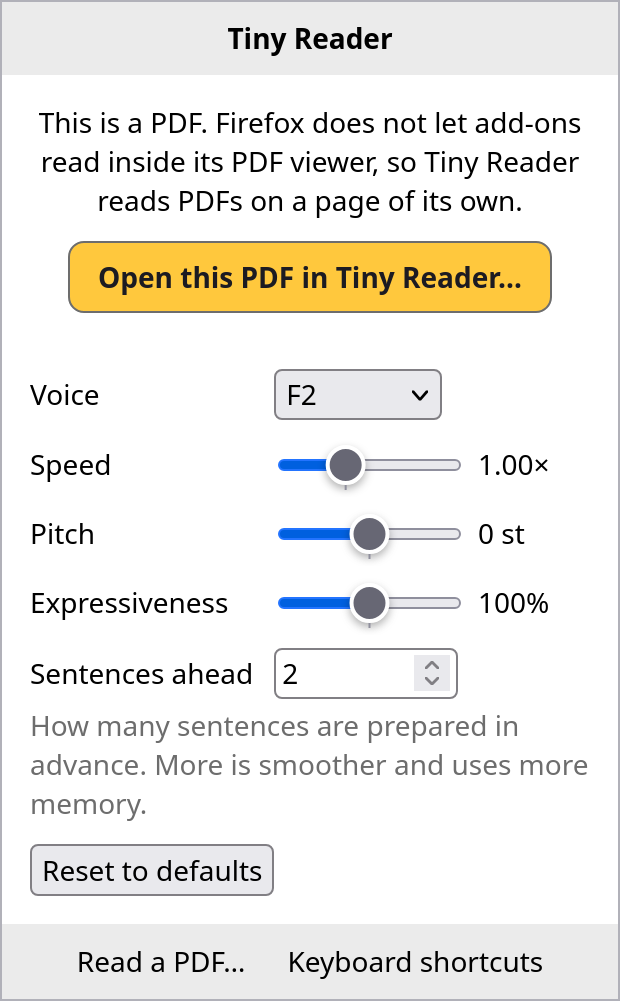
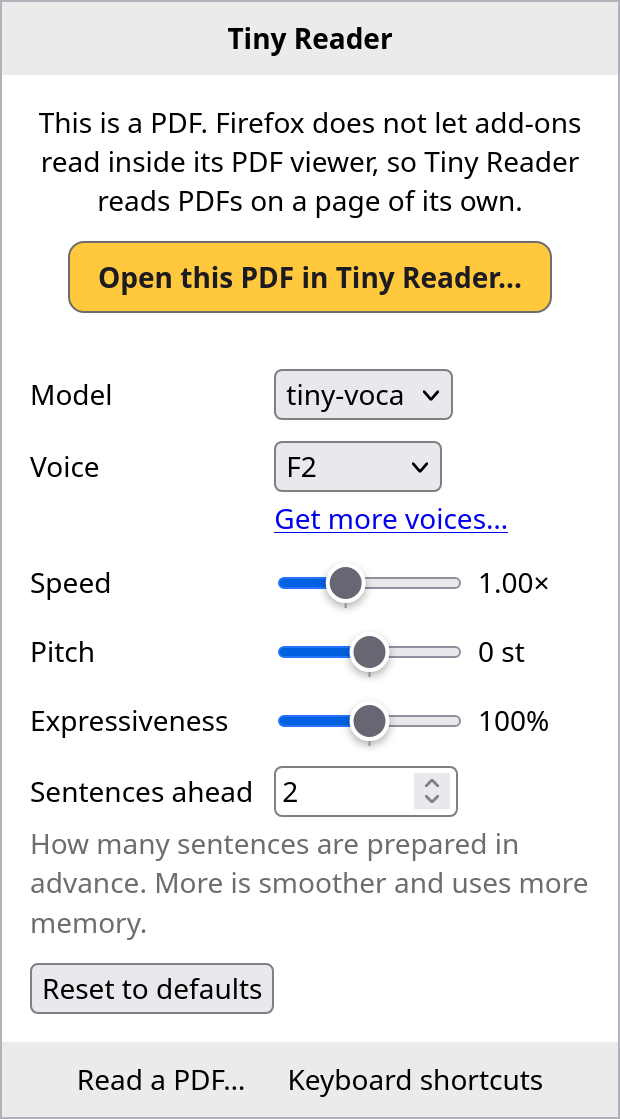
docs: document extra voices, their download and the model list

diff --git a/docs/FINDINGS.md b/docs/FINDINGS.md
@@ -5,7 +5,7 @@ tested with code unless marked **(unverified)**. It explains choices that look o
 the background page, why PDFs get a page of their own, why Firefox 140.
 
 Checked 2026-11-19 to 2026-11-21 with Node 22.22.1, Firefox 158.0.1 (Linux x86-64, headless), onnxruntime-web 1.31.1
-and pdf.js 6.5.438. Nothing in the automated runs was listened to.
+and pdf.js 6.5.438. Nothing in the automated runs was listened to, the downloadable voices of §13 included.
 
 Pinned sources:
 
@@ -275,3 +275,100 @@ size becomes a goal, upstream's block-scaled Q8 weights are the better route and
   shortcut's `<key>` element, which fails unless that exact shortcut is registered.
 - `web-ext lint`: no errors, four accepted warnings. One is that `strict_min_version` 140 predates Firefox for
   Android 142 (the add-on is desktop only); three are inside ONNX Runtime and pdf.js.
+
+## 13. Extra voices
+
+Other models of the tiny-voca family can be downloaded from a list kept in the add-on
+([engine/models.ts](../engine/models.ts)). The bundled model stays in every release.
+
+**Which models**
+
+- A model can be listed only if it works with the engine and the bundled English phonemizer unchanged: the same
+  token table, the inputs and outputs of §1, 24 kHz. Text-to-phoneme code for another language would have to ship
+  inside the add-on; it cannot be downloaded, because that would be remote code.
+- A check on 2026-11-21 of the 34 community models linked from the tiny-voca README found two that qualify, both
+  Apache-2.0 and both a 21 MB float32 ONNX file. Through `createEngine` under Node each gave finite audio and 14 word
+  timings for a test sentence.
+
+  | Model                     | Voices | Hugging Face revision                      | `onnx/model.onnx`                     |
+  | ------------------------- | ------ | ------------------------------------------ | ------------------------------------- |
+  | `PatnaikAshish/SobbieTTS` | F, M   | `6b6132c6d34b5fc163d8f5553580678a60532ac3` | 21,386,372 bytes, SHA-256 `eafb38b7…` |
+  | `cfahlgren1/fiato`        | F1, M1 | `967de50b6a9ab673ef7de9f8f276fa93a8c0db81` | 21,388,682 bytes, SHA-256 `179df2e1…` |
+
+- SobbieTTS has the original's token table. fiato has the same 76 tokens at the same ids plus three more (sigh,
+  exhale, gasp) that the phonemizer never emits, so those sounds are not used.
+- **`phonemizer.fingerprint` in a model's `config.json` cannot be trusted**: one model claimed the original's
+  fingerprint with a different token table. Models are admitted by comparing the table itself.
+- **Each list entry names the text front end it needs** (`frontend`), and the list in this repository is the
+  authority for it, for the reason above. There is one front end today, `dizione`, the bundled English phonemizer,
+  and all three entries name it. The engine picks the front end by that name and refuses a model whose front end it
+  does not have, before loading the file; the bundled model then reads, with the notice described below.
+- What that leaves open for another language: a front end's **code** must ship in the add-on (no remote code), so a
+  new language is a new release with its front end and list entries that name it. A front end's **data**, such as a
+  pronunciation dictionary, is data like model weights and could be downloaded the same way. Neither is built: no
+  interface for front ends, no downloadable front-end data.
+- The sizes and SHA-256 values are the ones Hugging Face publishes for the files
+  (`https://huggingface.co/api/models/<repo>?blobs=true`); a download of SobbieTTS from Firefox hashed to the same.
+
+**Is a download allowed?** Mozilla's Add-on Policies (last updated 2026-10-20) and the revision announced for
+2026-12-01 say the same in "Development Practices": "Add-ons must be self-contained and not load remote code for
+execution", and "Add-ons must use encryption when transporting data remotely." About other files: "If external
+resources are used in combination with add-on code, the functionality of the code must not be obscured." Nothing
+forbids fetching data. Model weights are data: ONNX Runtime, which is in the package, reads them, and no script or
+wasm is fetched. The policy does not define "remote code", so a reviewer has the last word **(unverified: not
+submitted yet)**. The request is `https`, started by a click, and described in the README.
+
+**The request**
+
+- `https://huggingface.co/<repo>/resolve/<revision>/onnx/model.onnx` answers `302` to a signed address on
+  `us.aws.cdn.hf.co`. Both answers carry CORS headers, so **the download works from an add-on page with no host
+  permission at all** (21 MB in 1.5 s on the test connection).
+- **The permission is asked for anyway, because of one header.** Measured with a local server: without host access
+  Firefox sends `Origin: moz-extension://<uuid>` on the first request, and that uuid is made up per installation,
+  so it would tell one user's downloads apart. With host access to the first host there is no `Origin` header; the
+  redirected request carries `Origin: null` either way. `credentials: "omit"` keeps cookies out. An end-to-end test
+  checks that the request has no `Cookie`, `Authorization`, `Origin` or `Referer`.
+- The access is requested in the click on Download and removed when that download ends, unless it was held before
+  (granted earlier for a PDF on that site). Firefox's prompt reads "Access your data for sites in huggingface.co
+  domains". Verified by clicking through the real prompt: accepted and refused in the settings page opened in a
+  tab, and accepted where it is embedded in `about:addons`, with a real download from Hugging Face.
+- **Not in the toolbar popup.** A popup closes when it loses focus, which a permission prompt causes, and a
+  download would die with it. The popup offers the downloaded models and a link to the settings.
+
+**Verifying and storing**
+
+- A download is kept in memory, never more than the size the list pins, and stored only if its length and SHA-256
+  match. Tested end to end with a file that has one byte changed: nothing is stored.
+- **Storage: IndexedDB.** Tried with a throwaway add-on, writing 21 MB in a page and reading it elsewhere:
+
+  | Storage                                 | Add-on page | Background page | Worker started by it |
+  | --------------------------------------- | ----------- | --------------- | -------------------- |
+  | IndexedDB, as a `Blob`                  | works       | works           | works, read in 36 ms |
+  | IndexedDB, as an `ArrayBuffer`          | works       | works           | works                |
+  | OPFS (`navigator.storage.getDirectory`) | works       | works           | works                |
+
+  Both would do. IndexedDB was taken: the same few lines in the page and in the Worker, and a `Blob` is kept as a
+  file by Firefox. `storage.local` is not meant for 21 MB values.
+- `navigator.storage.persisted()` is false, so Firefox may evict the models when the disk is short. `unlimitedStorage`
+  would prevent that and was not added: it is one more permission, and a model that is gone is handled.
+
+**Using a model**
+
+- The model's id travels with every request (`SynthOptions.model`). The Worker has no `browser.storage`, and this
+  way a change of model needs no other message.
+- Before a model is used, its inputs and outputs are compared with §1, by name and type
+  (`InferenceSession.inputMetadata`). A stand-in model with one input renamed is refused.
+- **Fallback.** A model that is not in storage, cannot be loaded, or needs a front end the build lacks is replaced by
+  the bundled one, and every
+  result made that way carries a notice that the control bar shows. A missing file is looked for again with each
+  sentence (cheap), so a model downloaded again is used at once; a file that failed to load is not tried again
+  until the Worker restarts. The settings form offers only models that are in storage, and deleting the chosen
+  model chooses the bundled one.
+- One model is in memory at a time; switching releases the session first. In Firefox, the test sentence came out as
+  2.57 s of audio with SobbieTTS and 2.94 s with fiato, 9 word timings each.
+
+**Testing.** No test file can pass for a listed model, since each is pinned to a hash. The end-to-end test
+([tests/e2e/models.test.ts](../tests/e2e/models.test.ts)) therefore makes a second production build with one more
+list entry, given in `VITE_E2E_MODEL`: a 687-byte ONNX file with the right inputs and outputs, written out by hand
+([tests/stand-in-model.ts](../tests/stand-in-model.ts)) and served by the local test site. The normal build has no
+trace of it.

diff --git a/README.md b/README.md
@@ -3,8 +3,9 @@
 A Firefox add-on (Manifest V3) that reads web page text aloud with the
 [tiny-voca](https://github.com/n4ze3m/tiny-voca) text-to-speech model and highlights what is
 being spoken. Inference runs locally in the browser through ONNX Runtime Web. No text or audio
-leaves the machine. The add-on makes one kind of network request, and only when you ask for it:
-downloading a PDF from the web so that it can read it to you.
+leaves the machine. The add-on makes two kinds of network request, each only when you ask for it:
+downloading a PDF from the web so that it can read it to you, and downloading another voice from
+Hugging Face.
 
 <p align="center">
   <img src="docs/screenshots/web-page.png" width="800" alt="A web page being read: the sentence is highlighted in yellow, the word being spoken in a darker colour, and a small control bar sits at the bottom of the page.">
@@ -16,7 +17,7 @@ downloading a PDF from the web so that it can read it to you.
   text when nothing is selected. The same panel has previous, pause, next and stop, and all the settings.
 
   <p align="center">
-    <img src="docs/screenshots/popup.png" width="300" alt="The toolbar popup: a Read aloud button, buttons for previous, pause, next and stop, and the settings for voice, speed, pitch and expressiveness.">
+    <img src="docs/screenshots/popup.png" width="300" alt="The toolbar popup: a Read aloud button, buttons for previous, pause, next and stop, and the settings for model, voice, speed, pitch and expressiveness.">
   </p>
 
 - To hear a PDF, open the popup and choose **Read a PDF…**. On a PDF tab the popup says so and offers **Open this PDF
@@ -43,8 +44,16 @@ downloading a PDF from the web so that it can read it to you.
 - <kbd>Alt</kbd>+<kbd>Shift</kbd>+<kbd>P</kbd> pauses and resumes, <kbd>Alt</kbd>+<kbd>Shift</kbd>+<kbd>X</kbd>
   stops. Next and previous sentence have commands without default keys. All keys can be changed in
   Firefox under Add-ons and themes → gear menu → Manage Extension Shortcuts.
-- Settings (add-on's Preferences): voice, speed, pitch, expressiveness (pitch range) and how many
+- Settings (add-on's Preferences): model, voice, speed, pitch, expressiveness (pitch range) and how many
   sentences are prepared ahead. Speed and voice chosen in the bar are remembered too.
+- More voices: the tiny-voca model with its two voices is built in. Under **More voices** in the settings (**Get more
+  voices…** in the popup leads there) you can download other English models made from it,
+  [SobbieTTS](https://huggingface.co/PatnaikAshish/SobbieTTS) and [fiato](https://huggingface.co/cfahlgren1/fiato),
+  about 21 MB each, both under the Apache-2.0 licence. Press **Download** and accept Firefox's permission prompt; the
+  file comes from huggingface.co, is checked against a fingerprint Tiny Reader carries, and is kept on your computer
+  until you press **Delete**. Then choose it under **Model**. Only the models in this list can be downloaded: the
+  list is part of the add-on ([engine/models.ts](engine/models.ts)). If a downloaded model is ever missing or
+  unusable, the built-in one reads instead and the control bar says so.
 
 ## Trying it
 
@@ -82,9 +91,20 @@ add-on is removed when Firefox closes; load it again after a restart.
 
 One optional permission is asked for at runtime, never at install:
 
-| Optional permission                              | Why                                                                                                                                                                                                                                                                                                          |
-| ------------------------------------------------ | ------------------------------------------------------------------------------------------------------------------------------------------------------------------------------------------------------------------------------------------------------------------------------------------------------------ |
-| Access to one site (`optional_host_permissions`) | Requested when you open a PDF from that site in the Tiny Reader page, so the add-on can download the file. It is used for that download only; the add-on still injects nothing into the site's pages unless you start a reading there. You can withdraw it under the add-on's Permissions in `about:addons`. |
+| Optional permission                              | Why                                                                                                                                                                                                                                                                                                                                                                                                              |
+| ------------------------------------------------ | ---------------------------------------------------------------------------------------------------------------------------------------------------------------------------------------------------------------------------------------------------------------------------------------------------------------------------------------------------------------------------------------------------------------- |
+| Access to one site (`optional_host_permissions`) | Requested when you open a PDF from that site in the Tiny Reader page, so the add-on can download the file. It is used for that download only; the add-on still injects nothing into the site's pages unless you start a reading there. You can withdraw it under the add-on's Permissions in `about:addons`.                                                                                                     |
+| Access to `huggingface.co` (the same key)        | Requested each time you press **Download** on a voice model, and given back as soon as that download ends (unless you had already granted it for a PDF there). The download would work without it, but then Firefox adds an `Origin` header with the add-on's internal address, which is different for every installation and so could tell yours apart. With the permission the request carries no such header. |
+
+Network requests, all of them started by you:
+
+- A PDF you open from the web, fetched from its own site with the cookies Firefox has for it, as when you view it.
+- A voice model you download: one `GET` for a file at a pinned revision on `huggingface.co`, which redirects to
+  Hugging Face's file servers. No cookies, no data and no header that could tell your installation apart are sent;
+  Hugging Face sees what any download shows it, your IP address and browser version. The file is model weights, data that ONNX Runtime
+  reads; it is never run as code, and it is stored only if its size and SHA-256 are the ones in the add-on's list.
+
+Nothing is requested in the background, and nothing is updated by itself.
 
 There are no host permissions at install and no `web_accessible_resources`. The extension CSP is
 `script-src 'self' 'wasm-unsafe-eval'`: wasm compilation is required by ONNX Runtime, and nothing
@@ -96,7 +116,8 @@ does not extend to such frames.
 
 ## Limits
 
-- English only. Text in another script is skipped; if nothing can be read the bar says so. Text
+- English only, with the built-in model and with the ones that can be downloaded. Text in another script is
+  skipped; if nothing can be read the bar says so. Text
   that Firefox's local language detector identifies as another language gets a warning in the bar
   and is read anyway, with English sounds.
 - Firefox's Reader View and its PDF viewer cannot be read in place, nor can Firefox's own pages or
@@ -136,6 +157,10 @@ you keep the licence and the [NOTICE](NOTICE) file, which credits this project.
 - pdf.js (`pdfjs-dist`): Apache-2.0, © Mozilla Foundation. The text-layer rules in
   [entrypoints/document/style.css](entrypoints/document/style.css) are taken from its `pdf_viewer.css`.
 - ONNX Runtime Web: MIT, © Microsoft
+
+The voices that can be downloaded are not part of the add-on: SobbieTTS (by `PatnaikAshish`) and fiato (by
+`cfahlgren1`), both made from tiny-voca and released under Apache-2.0, are fetched from their authors' pages on
+Hugging Face when you ask for them.
 
 [THIRD-PARTY-NOTICES.md](THIRD-PARTY-NOTICES.md) has the versions and sources. The licence texts are bundled in the
 add-on under `licenses/` and `assets/licenses/`.

diff --git a/CONTRIBUTING.md b/CONTRIBUTING.md
@@ -99,6 +99,25 @@ Scopes in use: `engine`, `content`, `highlight`, `options`, `e2e`, `parity`, `as
 Examples: `feat(engine): align spoken words to source text`, `test(e2e): add reading tests on strict-CSP pages`,
 `docs: document the pre-commit hook`.
 
+## Voice models
+
+The models the add-on can use are listed in [engine/models.ts](engine/models.ts); nothing else can be downloaded.
+To add one:
+
+1. Check that it qualifies: the token table in its `config.json` is the bundled model's (extra tokens the phonemizer
+   never emits are fine), and the ONNX file has the inputs and outputs in [docs/FINDINGS.md](docs/FINDINGS.md) §1 at
+   24 kHz. Do not go by `phonemizer.fingerprint`. Its entry names the text front end it needs (`frontend`); the
+   only one is `dizione`, the bundled English phonemizer. A model for another language needs its front end's code
+   added to the add-on first (`frontEnd` in [engine/engine.ts](engine/engine.ts)): code cannot be downloaded.
+2. Take the commit, size and SHA-256 from `https://huggingface.co/api/models/<repo>?blobs=true` (`sha`, and the
+   file's `size` and `lfs.sha256`). Pin the commit, never a branch.
+3. Run it through `createEngine` (as [tests/smoke/engine.test.ts](tests/smoke/engine.test.ts) does), listen to it,
+   and check its licence allows passing it on.
+
+`pnpm test:e2e` makes a second build in `.output/firefox-mv3-e2e` for
+[tests/e2e/models.test.ts](tests/e2e/models.test.ts): the production build with a stand-in model added to the list
+through the `VITE_E2E_MODEL` variable. Nothing else sets that variable.
+
 ## Phonemizer parity
 
 Text is turned into phoneme ids by upstream's JavaScript port of the

diff --git a/docs/ARCHITECTURE.md b/docs/ARCHITECTURE.md
@@ -28,7 +28,7 @@ flowchart LR
   subgraph worker["Engine Worker"]
     direction TB
     phonemizer["Phonemizer<br/>dizione"]
-    model["tiny-voca<br/>ONNX Runtime Web, wasm"]
+    model["tiny-voca, or a downloaded model<br/>ONNX Runtime Web, wasm"]
     align["Word alignment"]
     phonemizer --> model --> align
   end
@@ -66,6 +66,11 @@ flowchart LR
 - **Engine Worker** ([entrypoints/engine-worker.ts](../entrypoints/engine-worker.ts), [engine/](../engine/)): one request is
   one sentence; the reply is 24 kHz PCM plus a time span for every source word. Firefox unloads it 30 seconds after
   reading stops.
+- **Models** ([engine/models.ts](../engine/models.ts), [engine/model-store.ts](../engine/model-store.ts),
+  [engine/loader.ts](../engine/loader.ts)): the list of models the add-on can use. The first ships in the package;
+  the others are downloaded from the settings page, verified against the list and kept in IndexedDB, where the
+  Worker finds them. Each request names its model, and the Worker falls back to the bundled one, with a notice for
+  the control bar, when a downloaded model is missing or unusable.
 - **Protocol** ([engine/protocol.ts](../engine/protocol.ts)): typed messages with request ids. Cancelling drops queued
   work and discards the result of work in progress.
 
